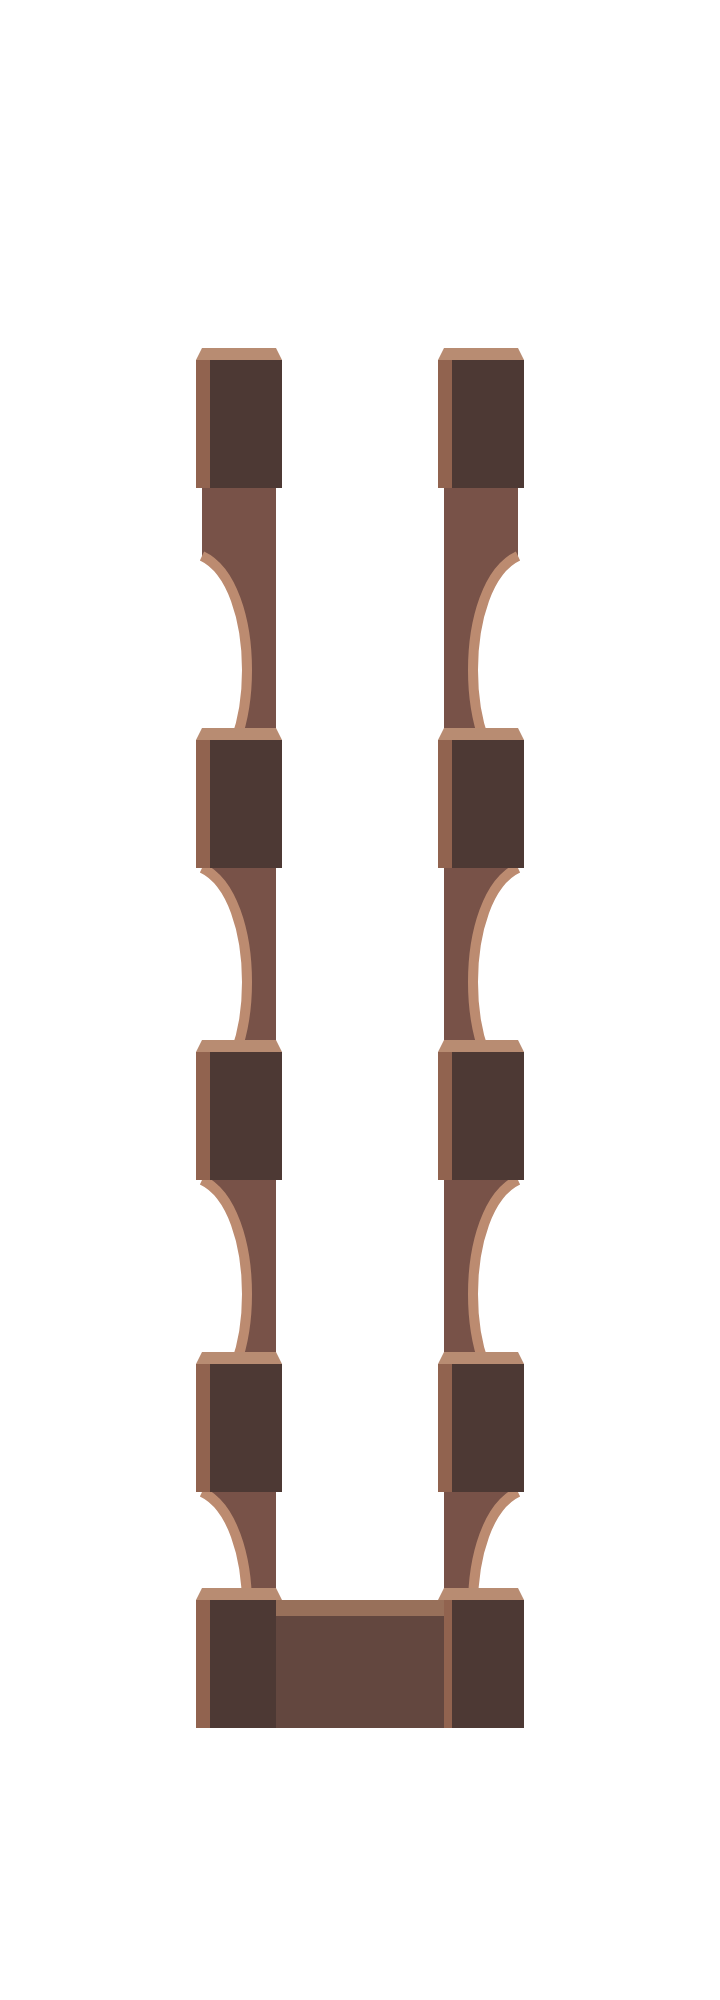
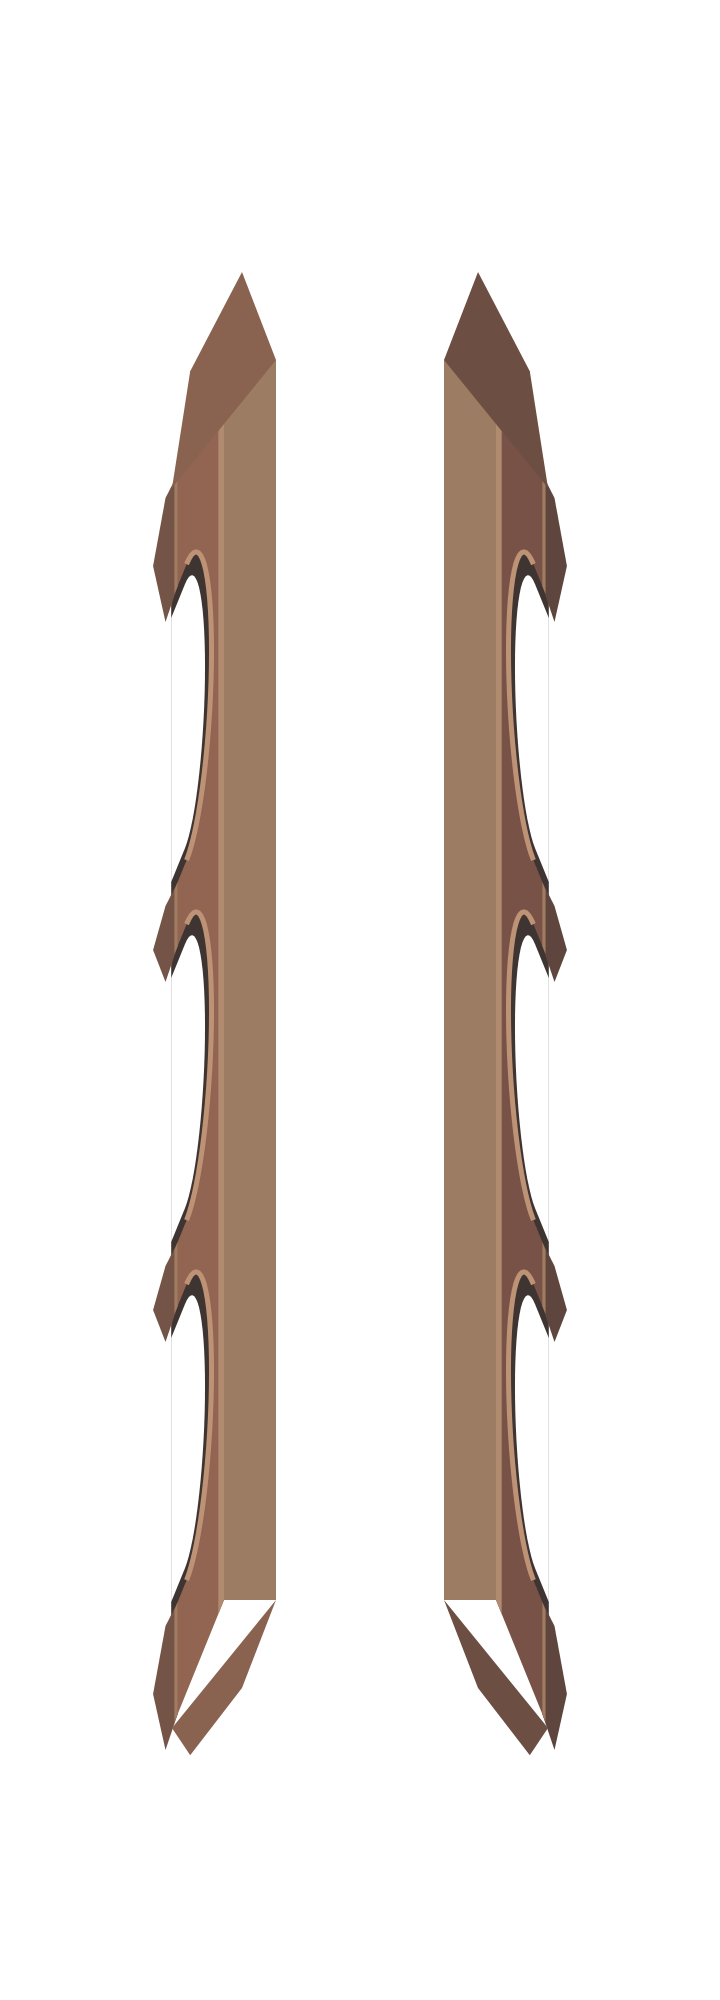
Refine bridge blockout into connected arches and submerged foundations

Changed region(s): [[0.2139, 0.124, 0.7944, 0.899]]

diff --git a/gary-bridge-art.js b/gary-bridge-art.js
@@ -9,6 +9,9 @@
   for(const key of Object.keys(REGISTRATION))if(r?.[key]!==REGISTRATION[key])throw Error('Bridge registration mismatch: '+key);
   const p=pack.candidate;
   if(pack.approved!==false||p?.approved!==false||p?.status!=='PROVISIONAL_NEEDS_VISUAL_APPROVAL')throw Error('Candidate must remain unapproved');
+  if(p.sideFaceTop?.join(',')!=='112,248')throw Error('Invalid provisional side-face placement');
+  if(!Number.isFinite(p.sideFaceOutset)||p.sideFaceOutset<20||p.sideFaceOutset>44)throw Error('Invalid provisional side-face outset');
+  if(p.structureRevision!=='connected-arcade-v2'||JSON.stringify(p.archSpans)!=='[[236,384],[416,564],[596,744]]'||p.soffitInset!==8)throw Error('Invalid structural candidate metadata');
   if(!Number.isFinite(p.heightProjection)||p.heightProjection<.1||p.heightProjection>1.6||!Number.isFinite(p.supportHeight)||p.supportHeight<32||p.supportHeight>96||!Number.isFinite(p.parapetHeight)||p.parapetHeight<0||p.parapetHeight>28)throw Error('Invalid blockout projection');
   for(const key of KEYS){const l=pack.layers?.[key];if(!l||l.sourceWidth!==720||l.sourceHeight!==2000||l.anchor?.join(',')!=='360,1600'||l.alpha!==true)throw Error('Layer registration mismatch: '+key);}
   return true;
@@ -21,18 +24,40 @@
   })));
   return images;
  }
+ // Side elevations share a single affine face map. No lane or ground projection changes.
+ const SPANS=Object.freeze([[236,384],[416,564],[596,744]].map(Object.freeze));
+ const SUPPORTS=Object.freeze([[180,236],[384,416],[564,596],[744,800]].map(Object.freeze));
+ function sidePoint(pack,side,u,z){
+  const depth=pack.candidate.supportHeight*pack.candidate.heightProjection;
+  return [side<0?pack.candidate.sideFaceTop[0]-z/depth*pack.candidate.sideFaceOutset:pack.candidate.sideFaceTop[1]+z/depth*pack.candidate.sideFaceOutset,u+z];
+ }
+ function archPoints(pack,side,start,end,inset=0){
+  const h=pack.candidate.supportHeight*pack.candidate.heightProjection,a=start+inset,b=end-inset;
+  const spring=h*.72+inset*.25,crown=h*.24+inset;
+  const pts=[sidePoint(pack,side,a,h+1),sidePoint(pack,side,a,spring)];
+  for(let i=0;i<=32;i++){const angle=Math.PI*i/32,u=(a+b)/2-(b-a)/2*Math.cos(angle),z=spring-(spring-crown)*Math.sin(angle);pts.push(sidePoint(pack,side,u,z));}
+  pts.push(sidePoint(pack,side,b,h+1));return pts;
+ }
+ function wingPoints(pack,side,u,direction){
+  const height=pack.candidate.supportHeight*pack.candidate.heightProjection,inner=side<0?138:222;
+  return [[inner,u],[inner+side*17,u+direction*44],sidePoint(pack,side,u+direction*36,height*.65),sidePoint(pack,side,u,height)];
+ }
  function layout(pack,near=800){
   validatePack(pack);if(!Number.isFinite(near))throw Error('Invalid world position');
   const offset=near-800,depth=pack.candidate.supportHeight*pack.candidate.heightProjection;
-  return {deck:{x:138,y:near-620,w:84,h:620},depth,
-   piers:[180,370,526,682,800].flatMap(y=>[{x:98,y:y+offset,w:43,h:depth},{x:219,y:y+offset,w:43,h:depth}]),
-   fascia:{x:138,y:near,w:84,h:depth},anchor:{x:180,y:near}};
+  const piers=[];
+  for(const side of [-1,1])for(const [a,b] of SUPPORTS){
+   const points=[sidePoint(pack,side,a,0),sidePoint(pack,side,b,0),sidePoint(pack,side,b,depth),sidePoint(pack,side,a,depth)].map(([x,y])=>[x,y+offset]);
+   piers.push({side,start:a,end:b,points,x:Math.min(...points.map(p=>p[0])),y:a+offset,w:pack.candidate.sideFaceOutset,h:b-a+depth});
+  }
+  return {deck:{x:138,y:near-620,w:84,h:620},depth,piers,spans:SPANS,
+   returns:[-1,1].flatMap(side=>[[180,-1],[800,1]].map(([u,direction])=>wingPoints(pack,side,u,direction).map(([x,y])=>[x,y+offset]))),anchor:{x:180,y:near}};
  }
  function drawGuides(ctx,pack,near){
   const f=layout(pack,near);ctx.save();ctx.lineWidth=1;ctx.setLineDash([3,3]);
   ctx.strokeStyle='#f8d082';ctx.strokeRect(f.deck.x,f.deck.y,f.deck.w,f.deck.h);
-  ctx.strokeStyle='#f7a08b';for(const p of f.piers)ctx.strokeRect(p.x,p.y,p.w,p.h);
-  ctx.strokeRect(f.fascia.x,f.fascia.y,f.fascia.w,f.fascia.h);
+  ctx.strokeStyle='#f7a08b';for(const p of f.piers){ctx.beginPath();p.points.forEach(([x,y],i)=>i?ctx.lineTo(x,y):ctx.moveTo(x,y));ctx.closePath();ctx.stroke();}
+  for(const points of f.returns){ctx.beginPath();points.forEach(([x,y],i)=>i?ctx.lineTo(x,y):ctx.moveTo(x,y));ctx.closePath();ctx.stroke();}
   ctx.strokeStyle='#8cf3da';ctx.beginPath();ctx.moveTo(174,f.anchor.y);ctx.lineTo(186,f.anchor.y);ctx.moveTo(180,f.anchor.y-6);ctx.lineTo(180,f.anchor.y+6);ctx.stroke();ctx.restore();
  }
  function create({makeCanvas,pack,images={},environment}){
@@ -45,23 +70,33 @@
   const poly=(c,points,color)=>{c.beginPath();points.forEach(([x,y],i)=>i?c.lineTo(x,y):c.moveTo(x,y));c.closePath();c.fillStyle=color;c.fill();};
   for(const key of KEYS){const c=canvas();canvases[key]=c;const g=c.getContext('2d');g.scale(2,2);
    if(key==='lower'){
-    // Deep side faces and repeated piers. Flat diagnostic colours, no brick texture.
-    for(const [x,w] of [[101,37],[222,37]]){
-     g.fillStyle='#785248';g.fillRect(x,180,w,620+height);
-     // Exterior arch recesses are cut from the side silhouette, not filled with scenery.
-     for(let y=214;y<750;y+=156){
-      const outer=x<180?x:x+w,inner=x<180?x+w-7:x+7;
-      g.save();g.globalCompositeOperation='destination-out';g.beginPath();g.moveTo(outer,y+height);g.lineTo(outer,y+114+height);g.bezierCurveTo(inner,y+100+height,inner,y+14+height,outer,y+height);g.closePath();g.fill();g.restore();
-      g.strokeStyle='#bc8b70';g.lineWidth=5;g.beginPath();g.moveTo(outer,y+height);g.bezierCurveTo(inner,y+14+height,inner,y+100+height,outer,y+114+height);g.stroke();
+    // One continuous spandrel per side. Three true cut-through openings share
+    // connected crowns and piers; no detached rectangles are stacked on the face.
+    for(const side of [-1,1]){
+     const point=(u,z)=>sidePoint(pack,side,u,z);
+     poly(g,[point(180,0),point(800,0),point(800,height),point(180,height)],side<0?'#926553':'#785247');
+     for(const [a,b] of SPANS){
+      const outer=archPoints(pack,side,a,b),inner=archPoints(pack,side,a,b,8);
+      // Recess band is actual soffit area, with a transparent interior behind it.
+      poly(g,outer,'#3e3431');
+      g.save();g.globalCompositeOperation='destination-out';poly(g,inner,'#000');g.restore();
+      g.beginPath();outer.slice(1,-1).forEach(([x,y],i)=>i?g.lineTo(x,y):g.moveTo(x,y));g.strokeStyle='#bd9275';g.lineWidth=2.5;g.stroke();
      }
-     for(const y of [180,370,526,682,800]){
-      g.fillStyle='#4d3934';g.fillRect(x-3,y,w+6,height);
-      poly(g,[[x-3,y],[x+w+3,y],[x+w,y-6],[x,y-6]],'#b88c72');
-      g.fillStyle='#91634f';g.fillRect(x-3,y,7,height);
+     const deckEdge=side<0?138:222,facadeEdge=side<0?112:248;
+     poly(g,[[deckEdge,180],[deckEdge,800],[facadeEdge,800],[facadeEdge,180]],'#9c7c63');
+     // Continuous string course joins the arch crowns immediately under the deck.
+     poly(g,[point(180,0),point(800,0),point(800,7),point(180,7)],'#b18b70');
+     // Battered foundations and pointed cutwaters grow from the same pier map.
+     for(const [a,b] of SUPPORTS){
+      const topA=point(a,height-7),topB=point(b,height-7),baseB=point(b+3,height+8),nose=point((a+b)/2,height+11),baseA=point(a-3,height+8);
+      nose[0]+=side*5;poly(g,[topA,topB,baseB,nose,baseA],side<0?'#745446':'#5e453d');
+      poly(g,[topA,topB,point(b,height-3),point(a,height-3)],'#a17c60');
+     }
+     // End abutment returns flare into the banks, connecting the wing to the span.
+     for(const [u,direction] of [[180,-1],[800,1]]){
+      poly(g,wingPoints(pack,side,u,direction),side<0?'#89634f':'#6c4e42');
      }
     }
-    // Exposed near fascia extends BELOW the deck; its outline remains a candidate.
-    g.fillStyle='#63473f';g.fillRect(138,800,84,height);g.fillStyle='#98705a';g.fillRect(138,800,84,8);
    }else if(key==='deck'){
     poly(g,[[105,0],[255,0],[255,30],[222,180],[222,800],[255,950],[255,1000],[105,1000],[105,950],[138,800],[138,180],[105,30]],'#9a9282');
     g.fillStyle='#c3b69e';g.fillRect(138,180,84,620);
@@ -83,14 +118,23 @@
   const water=canvas(),banks=canvas(),wc=water.getContext('2d'),bc=banks.getContext('2d');wc.scale(2,2);bc.scale(2,2);
   for(const y of [285,685])for(const [x,w] of [[0,101],[259,101]]){bc.fillStyle='#56624a';bc.fillRect(x,y,w,22);}
   const contacts=[];
-  for(const y of [180,370,526,682,800]){
-   const foot=y+height;if(foot<300||foot>680)continue;
-   for(const [x,w] of [[98,43],[219,43]]){
-    const t=(foot-300)/380,first=t<=.45,f=first?t/.45:(t-.45)/.55;
-    const a=first?[49,78,75]:[82,118,108],b=first?[82,118,108]:[44,73,70];
-    const rgb=a.map((v,i)=>Math.round((v+(b[i]-v)*f)*.77+[15,29,27][i]*.23)).join(',');
-    const fade=wc.createLinearGradient(0,foot-16,0,foot+4);fade.addColorStop(0,'rgba('+rgb+',0)');fade.addColorStop(.65,'rgba('+rgb+',.85)');fade.addColorStop(1,'rgb('+rgb+')');wc.fillStyle=fade;wc.fillRect(x,foot-16,w,20);contacts.push(Object.freeze({x,y:foot,w}));
+  for(const side of [-1,1])for(const [a,b] of SUPPORTS){
+   if(a+height<300||b+height>680)continue;
+   const point=(u,z)=>sidePoint(pack,side,u,z),mid=(a+b)/2;
+   // The waterline follows the sloping foundation instead of a rectangular wipe.
+   // Cached depth bands cover the submerged plinth; contact highlights stay outside.
+   for(let i=0;i<8;i++){
+    const z0=height-13+i*3,z1=z0+3,at=mid+(z0+z1)/2;
+    const t=(at-300)/380,first=t<=.45,f=first?t/.45:(t-.45)/.55;
+    const colA=first?[49,78,75]:[82,118,108],colB=first?[82,118,108]:[44,73,70];
+    const rgb=colA.map((v,k)=>Math.round(v+(colB[k]-v)*f)).join(',');
+    const p0=point(a-5,z0),p1=point(b+5,z0),p2=point(b+5,z1),p3=point(a-5,z1);
+    p0[0]+=side*5;p1[0]+=side*5;p2[0]+=side*5;p3[0]+=side*5;
+    poly(wc,[p0,p1,p2,p3],'rgba('+rgb+','+Math.min(1,(i+1)/4)+')');
    }
+   const sample=point(mid,height+4);sample[0]+=side*2;
+   const p=point(a,height-4),q=point(b,height-4);p[0]+=side*3;q[0]+=side*3;
+   contacts.push(Object.freeze({side,start:a,end:b,x:sample[0]-10,y:sample[1]-2,w:22,sample:Object.freeze({x:sample[0],y:sample[1]}),edge:Object.freeze([p,q])}));
   }
   const blit=(ctx,image,near)=>ctx.drawImage(image,0,near-800,360,1000);
   return Object.freeze({
@@ -98,10 +142,10 @@
    templates:Object.freeze(canvases),waterMask:water,contacts:Object.freeze(contacts),
    drawWater(ctx,near,clock){environment.drawWater(ctx,near,clock);blit(ctx,banks,near);},
    drawLower(ctx,near){blit(ctx,layers.lower,near);},
-   drawWaterOcclusion(ctx,near,clock){blit(ctx,water,near);ctx.save();ctx.strokeStyle='#9cb9a7';ctx.lineWidth=1;const shift=Math.sin(clock*2)*2;for(const p of contacts){const y=near-800+p.y;ctx.beginPath();ctx.moveTo(p.x+4+shift,y);ctx.quadraticCurveTo(p.x+p.w/2,y+2,p.x+p.w-4+shift,y);ctx.stroke();}ctx.restore();},
+   drawWaterOcclusion(ctx,near,clock){blit(ctx,water,near);ctx.save();ctx.strokeStyle='rgba(156,185,167,.5)';ctx.lineWidth=1;const shift=Math.sin(clock*2)*1.5;for(const p of contacts){const x=p.sample.x+shift,y=p.sample.y+near-800;ctx.beginPath();ctx.moveTo(x-6,y);ctx.quadraticCurveTo(x,y+2,x+6,y);ctx.stroke();}ctx.restore();},
    drawDeck(ctx,near){blit(ctx,layers.deck,near);},
    drawForeground(ctx,near){blit(ctx,layers.foreground,near);}
   });
  }
- const api=Object.freeze({REGISTRATION,KEYS,ORDER,validatePack,loadImages,layout,drawGuides,create});if(typeof module==='object'&&module.exports)module.exports=api;else root.GaryBridgeArt=api;
+ const api=Object.freeze({REGISTRATION,KEYS,ORDER,validatePack,loadImages,layout,sidePoint,archPoints,drawGuides,create});if(typeof module==='object'&&module.exports)module.exports=api;else root.GaryBridgeArt=api;
 })(typeof window==='object'?window:globalThis);

diff --git a/gary-camera-lab.html b/gary-camera-lab.html
@@ -111,7 +111,7 @@ input[type=file]{display:block;max-width:100%;margin-top:7px}
 </div>
 </main>
 <script src="gary-camera-model.js"></script>
-<script src="gary-bridge-art.js?v=artpipeline1"></script>
+<script src="gary-bridge-art.js?v=arcade2"></script>
 <script>
 (async()=>{
 'use strict';
@@ -196,7 +196,7 @@ function candidate(){
    road:[contract.world.roadLeft,contract.world.roadRight],
    lanes:contract.world.laneCentres,bridgeDeck:[contract.bridge.deck.left,contract.bridge.deck.right]},
   raisedArchitecture:{status:'PROVISIONAL_NEEDS_VISUAL_APPROVAL',
-   heightProjection:Number($('elevation').value),sampleHeight:Number($('height').value),supportHeight:Number($('support').value),artworkBlockout:$('artwork').checked},
+   heightProjection:Number($('elevation').value),sampleHeight:Number($('height').value),supportHeight:Number($('support').value),artworkBlockout:$('artwork').checked,sideFaceOutset:artPack.candidate.sideFaceOutset,sideFaceTop:artPack.candidate.sideFaceTop,structureRevision:artPack.candidate.structureRevision,archSpans:artPack.candidate.archSpans,soffitInset:artPack.candidate.soffitInset},
   overlays:{footprints:$('footprints').checked,volumes:$('volumes').checked,opacity:Number($('opacity').value)/100},
   review:{art:'NOT_APPROVED',geometry:'NEEDS_VISUAL_COMPARISON',iphone:'UNVERIFIED'}
  },null,2);

diff --git a/index.html b/index.html
@@ -124,7 +124,7 @@
 <script src="gary-cutscene-runtime.js?v=cutscenestudio6"></script>
 <script src="gary-fox-encounter.js?v=bridge1"></script>
 <script src="gary-bridge.js?v=bridge1"></script>
-<script src="gary-bridge-art.js?v=artpipeline1"></script>
+<script src="gary-bridge-art.js?v=arcade2"></script>
 <script src="gary-difficulty-core.js?v=GaryStreetSequence20261018V2"></script>
 <script src="gary-difficulty-runtime.js?v=artpipeline1"></script>
 </body>

diff --git a/BRIDGE_ARTWORK_PIPELINE.md b/BRIDGE_ARTWORK_PIPELINE.md
@@ -1,6 +1,6 @@
 # Forgotten Bridge — registered artwork handoff
 
-**Technical preparation only. Projection and art are NOT APPROVED.** PR #5 remains stacked on bridge PR #4. Neither main nor either PR is merged by this work. The attached JPEG informs only reddish masonry, pale caps, broad slabs and repeated exterior arches. It is not imported, cut out or used as a camera reference. No material artwork has been generated.
+**Framework provisionally accepted; raised masonry and final illustration remain NOT APPROVED.** PR #5 remains stacked on bridge PR #4. Neither main nor either PR is merged by this work. The attached JPEG informs only reddish masonry, pale caps, broad slabs and repeated exterior arches. It is not imported, cut out or used as a camera reference. No material artwork has been generated.
 
 ## Review in Camera Lab
 
@@ -18,7 +18,7 @@ These were generated through Camera Lab's **real-engine** iframe, not the geomet
 
 [Exported Camera Lab candidate](docs/bridge-art/camera-candidate.json) · [Authoring pack](gary-bridge-art-contract.json) · [Actual alpha/bounds/hash report](art/bridge/templates/registration-report.json)
 
-The initial **candidate**, not a recommendation for approval, uses the existing provisional height factor 0.80, an 80-unit support descent (64 screen units), and a 14-unit parapet height (11.2 screen units). Deck and actors remain on the original screen plane. Raising Gary or changing collision/world geometry is outside this calibration. Review the side-face convention, entrance/exit massing, arch rhythm and waterline in motion before locking any silhouette. The angular banks, simple slab outlines, end fascia and caps are diagnostic geometry rather than art acceptance.
+The revised **connected-arcade-v2 candidate**, not a recommendation for approval, uses the existing provisional height factor 0.80, an 80-unit support descent (64 screen units), and a 14-unit parapet height (11.2 screen units). Deck and actors remain on the original screen plane. Raising Gary or changing collision/world geometry is outside this calibration. Review the side-face convention, entrance/exit massing, arch rhythm and waterline in motion before locking any silhouette. The angular banks, simple slab outlines, abutment returns and caps are diagnostic geometry rather than art acceptance. The structural side-face convention is explicitly provisional: for local longitudinal coordinate u and downward depth z, left=(112−26z/64,u+z), right=(248+26z/64,u+z) at the default depth64. This is a local masonry projection only; it never transforms the road, Gary, water or world camera. The deck-to-side ledge connects these exterior elevations to the unchanged x138/222 deck edges so that arch crowns remain visible outside the parapets.
 
 ## Exact artist specification
 
@@ -27,8 +27,8 @@ All three structural files are **720×2000 RGBA PNG**, one untrimmed cell, 2 sou
 | Order | Pass / source | Exact destination and anchor | Content and exclusions |
 | --- | --- | --- | --- |
 | 1 | Terrain/stream/banks — existing engine environment and independent blockout bank cache | Existing world distance; all local bridge masks use the common anchor above | Water, vegetation, rocks, ground and bank shapes belong ONLY here. The normal legacy environment stays separate. |
-| 2 | [lower.png](art/bridge/templates/lower.png) | 360×1000 at (0,near−800); source anchor (360,1600) | Structural sides x101..138 and222..259. Recesses cut alpha out of the silhouette, piers at local y180/370/526/682/800 extend down64 in this candidate. Piers x98..141 and219..262; near fascia x138..222 y800..864. Flat warm/dark face values are guides; artist supplies brick, soffits, wear and shadows within the approved silhouette. |
-| 2b | [water-occlusion-mask.png](art/bridge/templates/water-occlusion-mask.png) — ENVIRONMENT ONLY | Same 720×2000 source / 360×1000 draw and anchor | Overlaps the lower 16 units of submerged feet at local y434 and590, with 4-unit overflow. X98..141 /219..262. Stream-colour alpha fade plus bounded contact ripples embeds supports. Never include this water in the masonry image. |
+| 2 | [lower.png](art/bridge/templates/lower.png) | 360×1000 at (0,near−800); source anchor (360,1600) | Connected side elevations have top edges x112/248 and base edges x86/274 at depth64. Three arch spans u236..384,416..564,596..744 are genuine transparent openings; each has an 8-unit inset soffit band and a continuous upper spandrel/string course. Supports occupy u180..236,384..416,564..596,744..800 and end in battered plinths and pointed cutwaters. Near/far abutment returns flare 44 units along the approach, without changing the 620-unit deck. Flat face colours are geometry guides only. |
+| 2b | [water-occlusion-mask.png](art/bridge/templates/water-occlusion-mask.png) — ENVIRONMENT ONLY | Same 720×2000 source / 360×1000 draw and anchor | Eight cached depth bands follow each submerged sloping plinth from z51..75 at default depth64. The two interior supports (u384..416 and564..596) have separate masks on both sides, not rectangular wipes through the arch voids. Independent stream-colour overlap and small horizontal contact ripples embed the cutwater bases. Never include this water in the masonry image. |
 | 3 | [deck.png](art/bridge/templates/deck.png) | Same registration | x138..222 y180..800; broad 52-unit slab guide intervals. 150-unit-long taper at each end returns to x105..255. The untrimmed source extends through the approach/exit to y0/1000. Paving only, no characters, water or vegetation. |
 | 4 | Existing gameplay actors/items | Original engine foot anchors; Gary y546 | No new sprite, projection, apparent scale or collision proxy. |
 | 5 | [foreground.png](art/bridge/templates/foreground.png) | Same registration | Raised parapets on original x117/x223 footprints, top/side coping and end posts. Current candidate projects 14×.8=11.2 units upward. Keep the playable centre clear. No rocks, grass, water, floor or background. |
@@ -40,7 +40,7 @@ Five fixed 720×2000 caches are prepared on pack selection: three structure laye
 ## Reproduce and validate
 
 - `node tools/export-bridge-templates.cjs` deterministically exports geometric templates, separate water mask, candidate registration and measured alpha report. It creates no illustration. Register newly painted replacements separately in `asset-quality-manifest.json` and retain exact source sizes/anchors.
-- `npm test`: complete existing tests plus five pipeline regressions and the Camera Lab registered-art browser check. Existing camera contract tests still enforce the unchanged PR #4 dimensions/profile status. Pipeline regressions cover alpha/registration, mask clipping and independent replacement, bad-pack rejection, allocation bounds, submerged water overlap, active engine layer order, opt-in isolation, pause/reset and crossing progression.
+- `npm test`: complete existing tests plus seven pipeline regressions and the Camera Lab registered-art browser check. Existing camera contract tests still enforce the unchanged PR #4 dimensions/profile status. Pipeline regressions cover alpha/registration, mask clipping and independent replacement, bad-pack rejection, allocation bounds, submerged water overlap, active engine layer order, opt-in isolation, pause/reset and crossing progression, connected spandrels, true arch openings and soffit thickness, and base/occlusion registration through seven scroll positions. The actual browser also checks water-coloured bases over six consecutive live scrolling samples and verifies freeze afterward.
 - Browser captures: `node tests/bridge-art-browser.cjs` (also runs in npm browser checks and Chromium/WebKit CI); artifacts in ignored `test-results/bridge-art-<engine>/`. Asset gate checks all templates and committed screenshots.
 
 | Assessment | Status / evidence | Remaining action |
@@ -51,3 +51,7 @@ Five fixed 720×2000 caches are prepared on pack selection: three structure laye
 | Physical iPhone Safari and performance | UNVERIFIED-ON-DEVICE | Inspect first pack load, memory/frame pacing, waterline motion, scrolling and export on phone |
 
 No camera projection, geometry or artwork is approved by these tests or this implementation. To roll back this preparation, revert its commit on PR #5; PR #4's playable default bridge remains separate.
+
+## Structural refinement review
+
+The rectangular overlay piers were removed. One affine side elevation now joins each set of arch crowns to its piers; opening interiors are genuinely transparent, with a separate dark soffit band and a restrained edge value to expose thickness. Foundation silhouettes continue from the same side-face map and taper into cutwaters. Water overlap is an environment-only mask following those foundation edges; no water, banks, rain, grass or rocks were added to the three structural images. The deck and foreground PNGs remain byte-for-byte unchanged from the prior preparation. Entry/middle/exit captures were reopened and inspected after the revision. At exit the stream has naturally scrolled below the camera; the far abutment returns remain visible at the bottom edge. Final paint and raised-geometry approval remain pending.

diff --git a/GARY_CAMERA_SYSTEM.md b/GARY_CAMERA_SYSTEM.md
@@ -53,3 +53,7 @@ Create bridge masks/silhouettes based on the locked profile, with unchanged 84-u
 ## Registered artwork preparation (PR #5 continuation)
 
 Camera Lab now offers an explicit unapproved structural blockout and a **Test registered PNG layers** path in its real-engine view. See [BRIDGE_ARTWORK_PIPELINE.md](BRIDGE_ARTWORK_PIPELINE.md) for three inspected captures, exact source/draw/anchor specification and alpha report. The 80-unit support descent is an adjustable review candidate, not a locked profile. Terrain/water, deeper masonry, water occlusion, deck, actors and foreground structure have separate passes. The existing bridge stays the default; normal game geometry and the camera contract are unchanged. Templates are flat geometric guides, not final art derived from the supplied JPEG. User visual sign-off still precedes any material-art production or promotion.
+
+### Connected arcade candidate
+
+The current opt-in blockout is `connected-arcade-v2`: continuous spandrels, three actual alpha-cut openings with visible inset soffits, battered foundations/cutwaters, and flared end abutments. Its exterior side-face top edges x112/248 and 26-unit outward depth are structural review parameters, explicitly provisional. The ground camera and original deck/foreground registration are unchanged. Updated captures, local face equations and waterline scrolling checks are documented in BRIDGE_ARTWORK_PIPELINE.md.
